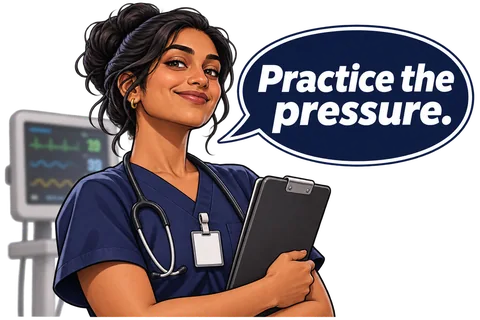
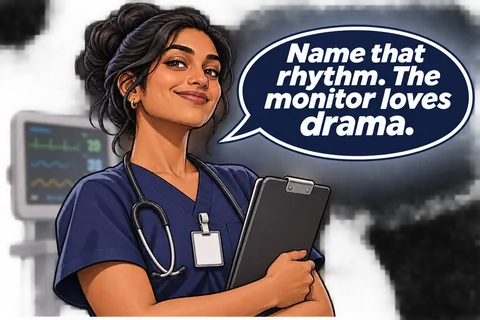
Tie rotating course artwork captions to practical skills

diff --git a/docs/PALS.html b/docs/PALS.html
@@ -819,7 +819,7 @@ height="0" width="0" style="display:none;visibility:hidden"></iframe></noscript>
       </div>
       
       <div class="family-hero-media is-character is-rotating">
-        <img data-family-hero="pals" data-hero-images="[{&quot;url&quot;: &quot;/images/characters/pals/PALS-1.webp?v=0eddeeb26fb4&quot;, &quot;alt&quot;: &quot;Smiling baby saying You got dis! \u2014 Don\u2019t make this weird.&quot;, &quot;srcset&quot;: &quot;/images/characters/pals/PALS-1-480.webp?v=25624ce568b7 480w, /images/characters/pals/PALS-1.webp?v=0eddeeb26fb4 960w&quot;}, {&quot;url&quot;: &quot;/images/characters/pals/PALS-2.webp?v=9e34bb3c9d38&quot;, &quot;alt&quot;: &quot;Respiratory therapist holding a bag-mask device with a Circulation, Airway, Breathing speech bubble.&quot;}, {&quot;url&quot;: &quot;/images/characters/pals/PALS-3.webp?v=9c1c63d270c7&quot;, &quot;alt&quot;: &quot;Respiratory therapist in blue scrubs holding a bag-mask device in a critical-care setting.&quot;}, {&quot;url&quot;: &quot;/images/characters/pals/PALS-4.webp?v=b7f261077fc4&quot;, &quot;alt&quot;: &quot;Respiratory therapy team in blue scrubs at a critical-care bedside.&quot;}, {&quot;url&quot;: &quot;/images/characters/pals/PALS-5.webp?v=8e95adf314c3&quot;, &quot;alt&quot;: &quot;Respiratory therapy team together in a critical-care setting.&quot;}, {&quot;url&quot;: &quot;/images/characters/pals/PALS-6.webp?v=be886e851785&quot;, &quot;alt&quot;: &quot;Pediatric nurse beside a simulation manikin. \u201cSmall patient. Big teamwork.\u201d&quot;, &quot;srcset&quot;: &quot;/images/characters/pals/PALS-6-480.webp?v=9c1359dd084a 480w, /images/characters/pals/PALS-6.webp?v=be886e851785 960w&quot;}, {&quot;url&quot;: &quot;/images/characters/pals/PALS-7.webp?v=3a58837d3b9a&quot;, &quot;alt&quot;: &quot;Respiratory therapist holding a pediatric bag-mask trainer. \u201cLittle lungs. Big focus.\u201d&quot;, &quot;srcset&quot;: &quot;/images/characters/pals/PALS-7-480.webp?v=81d3f03e1572 480w, /images/characters/pals/PALS-7.webp?v=3a58837d3b9a 960w&quot;}]" sizes="(max-width: 820px) 300px, 420px" alt="" fetchpriority="high"><noscript><img src="/images/characters/pals/PALS-1.webp?v=0eddeeb26fb4" srcset="/images/characters/pals/PALS-1-480.webp?v=25624ce568b7 480w, /images/characters/pals/PALS-1.webp?v=0eddeeb26fb4 960w" sizes="(max-width: 820px) 300px, 420px" alt="Smiling baby saying You got dis! — Don’t make this weird." loading="eager" fetchpriority="high"></noscript>
+        <img data-family-hero="pals" data-hero-images="[{&quot;url&quot;: &quot;/images/characters/pals/PALS-1.webp?v=0eddeeb26fb4&quot;, &quot;alt&quot;: &quot;Smiling baby saying You got dis! \u2014 Don\u2019t make this weird.&quot;, &quot;srcset&quot;: &quot;/images/characters/pals/PALS-1-480.webp?v=25624ce568b7 480w, /images/characters/pals/PALS-1.webp?v=0eddeeb26fb4 960w&quot;}, {&quot;url&quot;: &quot;/images/characters/pals/PALS-2.webp?v=9e34bb3c9d38&quot;, &quot;alt&quot;: &quot;Respiratory therapist holding a bag-mask device with a Circulation, Airway, Breathing speech bubble.&quot;}, {&quot;url&quot;: &quot;/images/characters/pals/PALS-3.webp?v=9c1c63d270c7&quot;, &quot;alt&quot;: &quot;Respiratory therapist in blue scrubs holding a bag-mask device in a critical-care setting.&quot;}, {&quot;url&quot;: &quot;/images/characters/pals/PALS-4.webp?v=b7f261077fc4&quot;, &quot;alt&quot;: &quot;Respiratory therapy team in blue scrubs at a critical-care bedside.&quot;}, {&quot;url&quot;: &quot;/images/characters/pals/PALS-5.webp?v=8e95adf314c3&quot;, &quot;alt&quot;: &quot;Respiratory therapy team together in a critical-care setting.&quot;}, {&quot;url&quot;: &quot;/images/characters/pals/PALS-6.webp?v=ca54b662bff4&quot;, &quot;alt&quot;: &quot;Pediatric nurse beside a simulation manikin. \u201cWeight in kilos. Pounds can sit this one out.\u201d&quot;, &quot;srcset&quot;: &quot;/images/characters/pals/PALS-6-480.webp?v=39649586df85 480w, /images/characters/pals/PALS-6.webp?v=ca54b662bff4 960w&quot;}, {&quot;url&quot;: &quot;/images/characters/pals/PALS-7.webp?v=28c672331f2e&quot;, &quot;alt&quot;: &quot;Respiratory therapist holding a pediatric bag-mask trainer. \u201cChest rise. Save the big squeeze for your stress ball.\u201d&quot;, &quot;srcset&quot;: &quot;/images/characters/pals/PALS-7-480.webp?v=fe2f0bb38590 480w, /images/characters/pals/PALS-7.webp?v=28c672331f2e 960w&quot;}]" sizes="(max-width: 820px) 300px, 420px" alt="" fetchpriority="high"><noscript><img src="/images/characters/pals/PALS-1.webp?v=0eddeeb26fb4" srcset="/images/characters/pals/PALS-1-480.webp?v=25624ce568b7 480w, /images/characters/pals/PALS-1.webp?v=0eddeeb26fb4 960w" sizes="(max-width: 820px) 300px, 420px" alt="Smiling baby saying You got dis! — Don’t make this weird." loading="eager" fetchpriority="high"></noscript>
       </div>
     </div>
   </header>

diff --git a/docs/pals.html b/docs/pals.html
@@ -819,7 +819,7 @@ height="0" width="0" style="display:none;visibility:hidden"></iframe></noscript>
       </div>
       
       <div class="family-hero-media is-character is-rotating">
-        <img data-family-hero="pals" data-hero-images="[{&quot;url&quot;: &quot;/images/characters/pals/PALS-1.webp?v=0eddeeb26fb4&quot;, &quot;alt&quot;: &quot;Smiling baby saying You got dis! \u2014 Don\u2019t make this weird.&quot;, &quot;srcset&quot;: &quot;/images/characters/pals/PALS-1-480.webp?v=25624ce568b7 480w, /images/characters/pals/PALS-1.webp?v=0eddeeb26fb4 960w&quot;}, {&quot;url&quot;: &quot;/images/characters/pals/PALS-2.webp?v=9e34bb3c9d38&quot;, &quot;alt&quot;: &quot;Respiratory therapist holding a bag-mask device with a Circulation, Airway, Breathing speech bubble.&quot;}, {&quot;url&quot;: &quot;/images/characters/pals/PALS-3.webp?v=9c1c63d270c7&quot;, &quot;alt&quot;: &quot;Respiratory therapist in blue scrubs holding a bag-mask device in a critical-care setting.&quot;}, {&quot;url&quot;: &quot;/images/characters/pals/PALS-4.webp?v=b7f261077fc4&quot;, &quot;alt&quot;: &quot;Respiratory therapy team in blue scrubs at a critical-care bedside.&quot;}, {&quot;url&quot;: &quot;/images/characters/pals/PALS-5.webp?v=8e95adf314c3&quot;, &quot;alt&quot;: &quot;Respiratory therapy team together in a critical-care setting.&quot;}, {&quot;url&quot;: &quot;/images/characters/pals/PALS-6.webp?v=be886e851785&quot;, &quot;alt&quot;: &quot;Pediatric nurse beside a simulation manikin. \u201cSmall patient. Big teamwork.\u201d&quot;, &quot;srcset&quot;: &quot;/images/characters/pals/PALS-6-480.webp?v=9c1359dd084a 480w, /images/characters/pals/PALS-6.webp?v=be886e851785 960w&quot;}, {&quot;url&quot;: &quot;/images/characters/pals/PALS-7.webp?v=3a58837d3b9a&quot;, &quot;alt&quot;: &quot;Respiratory therapist holding a pediatric bag-mask trainer. \u201cLittle lungs. Big focus.\u201d&quot;, &quot;srcset&quot;: &quot;/images/characters/pals/PALS-7-480.webp?v=81d3f03e1572 480w, /images/characters/pals/PALS-7.webp?v=3a58837d3b9a 960w&quot;}]" sizes="(max-width: 820px) 300px, 420px" alt="" fetchpriority="high"><noscript><img src="/images/characters/pals/PALS-1.webp?v=0eddeeb26fb4" srcset="/images/characters/pals/PALS-1-480.webp?v=25624ce568b7 480w, /images/characters/pals/PALS-1.webp?v=0eddeeb26fb4 960w" sizes="(max-width: 820px) 300px, 420px" alt="Smiling baby saying You got dis! — Don’t make this weird." loading="eager" fetchpriority="high"></noscript>
+        <img data-family-hero="pals" data-hero-images="[{&quot;url&quot;: &quot;/images/characters/pals/PALS-1.webp?v=0eddeeb26fb4&quot;, &quot;alt&quot;: &quot;Smiling baby saying You got dis! \u2014 Don\u2019t make this weird.&quot;, &quot;srcset&quot;: &quot;/images/characters/pals/PALS-1-480.webp?v=25624ce568b7 480w, /images/characters/pals/PALS-1.webp?v=0eddeeb26fb4 960w&quot;}, {&quot;url&quot;: &quot;/images/characters/pals/PALS-2.webp?v=9e34bb3c9d38&quot;, &quot;alt&quot;: &quot;Respiratory therapist holding a bag-mask device with a Circulation, Airway, Breathing speech bubble.&quot;}, {&quot;url&quot;: &quot;/images/characters/pals/PALS-3.webp?v=9c1c63d270c7&quot;, &quot;alt&quot;: &quot;Respiratory therapist in blue scrubs holding a bag-mask device in a critical-care setting.&quot;}, {&quot;url&quot;: &quot;/images/characters/pals/PALS-4.webp?v=b7f261077fc4&quot;, &quot;alt&quot;: &quot;Respiratory therapy team in blue scrubs at a critical-care bedside.&quot;}, {&quot;url&quot;: &quot;/images/characters/pals/PALS-5.webp?v=8e95adf314c3&quot;, &quot;alt&quot;: &quot;Respiratory therapy team together in a critical-care setting.&quot;}, {&quot;url&quot;: &quot;/images/characters/pals/PALS-6.webp?v=ca54b662bff4&quot;, &quot;alt&quot;: &quot;Pediatric nurse beside a simulation manikin. \u201cWeight in kilos. Pounds can sit this one out.\u201d&quot;, &quot;srcset&quot;: &quot;/images/characters/pals/PALS-6-480.webp?v=39649586df85 480w, /images/characters/pals/PALS-6.webp?v=ca54b662bff4 960w&quot;}, {&quot;url&quot;: &quot;/images/characters/pals/PALS-7.webp?v=28c672331f2e&quot;, &quot;alt&quot;: &quot;Respiratory therapist holding a pediatric bag-mask trainer. \u201cChest rise. Save the big squeeze for your stress ball.\u201d&quot;, &quot;srcset&quot;: &quot;/images/characters/pals/PALS-7-480.webp?v=fe2f0bb38590 480w, /images/characters/pals/PALS-7.webp?v=28c672331f2e 960w&quot;}]" sizes="(max-width: 820px) 300px, 420px" alt="" fetchpriority="high"><noscript><img src="/images/characters/pals/PALS-1.webp?v=0eddeeb26fb4" srcset="/images/characters/pals/PALS-1-480.webp?v=25624ce568b7 480w, /images/characters/pals/PALS-1.webp?v=0eddeeb26fb4 960w" sizes="(max-width: 820px) 300px, 420px" alt="Smiling baby saying You got dis! — Don’t make this weird." loading="eager" fetchpriority="high"></noscript>
       </div>
     </div>
   </header>

diff --git a/docs/ACLS.html b/docs/ACLS.html
@@ -819,7 +819,7 @@ height="0" width="0" style="display:none;visibility:hidden"></iframe></noscript>
       </div>
       
       <div class="family-hero-media is-character is-rotating">
-        <img data-family-hero="acls" data-hero-images="[{&quot;url&quot;: &quot;/images/characters/acls/ACLS-1.webp?v=316d0b3a38fd&quot;, &quot;alt&quot;: &quot;Approved ACLS nurse character with RN badge and a reminder to be ready when the room turns to you.&quot;, &quot;srcset&quot;: &quot;/images/characters/acls/ACLS-1-480.webp?v=73a72e4cd8c4 480w, /images/characters/acls/ACLS-1.webp?v=316d0b3a38fd 960w&quot;}, {&quot;url&quot;: &quot;/images/characters/acls/ACLS-2.webp?v=c50647615ba2&quot;, &quot;alt&quot;: &quot;Approved ACLS paramedic character: I am the designated adult? Yikes.&quot;, &quot;srcset&quot;: &quot;/images/characters/acls/ACLS-2-480.webp?v=a0a2f2f60913 480w, /images/characters/acls/ACLS-2.webp?v=c50647615ba2 960w&quot;}, {&quot;url&quot;: &quot;/images/characters/acls/ACLS-3.webp?v=d6fd96bf5b35&quot;, &quot;alt&quot;: &quot;Approved ACLS emergency department pharmacist character with an imposter-syndrome reminder.&quot;, &quot;srcset&quot;: &quot;/images/characters/acls/ACLS-3-480.webp?v=a03e9bebb375 480w, /images/characters/acls/ACLS-3.webp?v=d6fd96bf5b35 960w&quot;}, {&quot;url&quot;: &quot;/images/characters/acls/ACLS-4.webp?v=437125830218&quot;, &quot;alt&quot;: &quot;Emergency nurse holding a run sheet. \u201cCalm is a skill.\u201d&quot;, &quot;srcset&quot;: &quot;/images/characters/acls/ACLS-4-480.webp?v=a3bf7a78513b 480w, /images/characters/acls/ACLS-4.webp?v=437125830218 960w&quot;}, {&quot;url&quot;: &quot;/images/characters/acls/ACLS-5.webp?v=d229592a45cf&quot;, &quot;alt&quot;: &quot;Critical care clinician with a clipboard. \u201cPractice the pressure.\u201d&quot;, &quot;srcset&quot;: &quot;/images/characters/acls/ACLS-5-480.webp?v=2186d2ebf57e 480w, /images/characters/acls/ACLS-5.webp?v=d229592a45cf 960w&quot;}]" sizes="(max-width: 820px) 300px, 420px" alt="" fetchpriority="high"><noscript><img src="/images/characters/acls/ACLS-1.webp?v=316d0b3a38fd" srcset="/images/characters/acls/ACLS-1-480.webp?v=73a72e4cd8c4 480w, /images/characters/acls/ACLS-1.webp?v=316d0b3a38fd 960w" sizes="(max-width: 820px) 300px, 420px" alt="Approved ACLS nurse character with RN badge and a reminder to be ready when the room turns to you." loading="eager" fetchpriority="high"></noscript>
+        <img data-family-hero="acls" data-hero-images="[{&quot;url&quot;: &quot;/images/characters/acls/ACLS-1.webp?v=316d0b3a38fd&quot;, &quot;alt&quot;: &quot;Approved ACLS nurse character with RN badge and a reminder to be ready when the room turns to you.&quot;, &quot;srcset&quot;: &quot;/images/characters/acls/ACLS-1-480.webp?v=73a72e4cd8c4 480w, /images/characters/acls/ACLS-1.webp?v=316d0b3a38fd 960w&quot;}, {&quot;url&quot;: &quot;/images/characters/acls/ACLS-2.webp?v=c50647615ba2&quot;, &quot;alt&quot;: &quot;Approved ACLS paramedic character: I am the designated adult? Yikes.&quot;, &quot;srcset&quot;: &quot;/images/characters/acls/ACLS-2-480.webp?v=a0a2f2f60913 480w, /images/characters/acls/ACLS-2.webp?v=c50647615ba2 960w&quot;}, {&quot;url&quot;: &quot;/images/characters/acls/ACLS-3.webp?v=d6fd96bf5b35&quot;, &quot;alt&quot;: &quot;Approved ACLS emergency department pharmacist character with an imposter-syndrome reminder.&quot;, &quot;srcset&quot;: &quot;/images/characters/acls/ACLS-3-480.webp?v=a03e9bebb375 480w, /images/characters/acls/ACLS-3.webp?v=d6fd96bf5b35 960w&quot;}, {&quot;url&quot;: &quot;/images/characters/acls/ACLS-4.webp?v=a527534f2c37&quot;, &quot;alt&quot;: &quot;Emergency nurse holding a run sheet. \u201cSay it back. My telepathy\u2019s on break.\u201d&quot;, &quot;srcset&quot;: &quot;/images/characters/acls/ACLS-4-480.webp?v=441594820e06 480w, /images/characters/acls/ACLS-4.webp?v=a527534f2c37 960w&quot;}, {&quot;url&quot;: &quot;/images/characters/acls/ACLS-5.webp?v=c32993455314&quot;, &quot;alt&quot;: &quot;Critical care clinician with a clipboard. \u201cName that rhythm. The monitor loves drama.\u201d&quot;, &quot;srcset&quot;: &quot;/images/characters/acls/ACLS-5-480.webp?v=f546b986632a 480w, /images/characters/acls/ACLS-5.webp?v=c32993455314 960w&quot;}]" sizes="(max-width: 820px) 300px, 420px" alt="" fetchpriority="high"><noscript><img src="/images/characters/acls/ACLS-1.webp?v=316d0b3a38fd" srcset="/images/characters/acls/ACLS-1-480.webp?v=73a72e4cd8c4 480w, /images/characters/acls/ACLS-1.webp?v=316d0b3a38fd 960w" sizes="(max-width: 820px) 300px, 420px" alt="Approved ACLS nurse character with RN badge and a reminder to be ready when the room turns to you." loading="eager" fetchpriority="high"></noscript>
       </div>
     </div>
   </header>

diff --git a/docs/acls.html b/docs/acls.html
@@ -819,7 +819,7 @@ height="0" width="0" style="display:none;visibility:hidden"></iframe></noscript>
       </div>
       
       <div class="family-hero-media is-character is-rotating">
-        <img data-family-hero="acls" data-hero-images="[{&quot;url&quot;: &quot;/images/characters/acls/ACLS-1.webp?v=316d0b3a38fd&quot;, &quot;alt&quot;: &quot;Approved ACLS nurse character with RN badge and a reminder to be ready when the room turns to you.&quot;, &quot;srcset&quot;: &quot;/images/characters/acls/ACLS-1-480.webp?v=73a72e4cd8c4 480w, /images/characters/acls/ACLS-1.webp?v=316d0b3a38fd 960w&quot;}, {&quot;url&quot;: &quot;/images/characters/acls/ACLS-2.webp?v=c50647615ba2&quot;, &quot;alt&quot;: &quot;Approved ACLS paramedic character: I am the designated adult? Yikes.&quot;, &quot;srcset&quot;: &quot;/images/characters/acls/ACLS-2-480.webp?v=a0a2f2f60913 480w, /images/characters/acls/ACLS-2.webp?v=c50647615ba2 960w&quot;}, {&quot;url&quot;: &quot;/images/characters/acls/ACLS-3.webp?v=d6fd96bf5b35&quot;, &quot;alt&quot;: &quot;Approved ACLS emergency department pharmacist character with an imposter-syndrome reminder.&quot;, &quot;srcset&quot;: &quot;/images/characters/acls/ACLS-3-480.webp?v=a03e9bebb375 480w, /images/characters/acls/ACLS-3.webp?v=d6fd96bf5b35 960w&quot;}, {&quot;url&quot;: &quot;/images/characters/acls/ACLS-4.webp?v=437125830218&quot;, &quot;alt&quot;: &quot;Emergency nurse holding a run sheet. \u201cCalm is a skill.\u201d&quot;, &quot;srcset&quot;: &quot;/images/characters/acls/ACLS-4-480.webp?v=a3bf7a78513b 480w, /images/characters/acls/ACLS-4.webp?v=437125830218 960w&quot;}, {&quot;url&quot;: &quot;/images/characters/acls/ACLS-5.webp?v=d229592a45cf&quot;, &quot;alt&quot;: &quot;Critical care clinician with a clipboard. \u201cPractice the pressure.\u201d&quot;, &quot;srcset&quot;: &quot;/images/characters/acls/ACLS-5-480.webp?v=2186d2ebf57e 480w, /images/characters/acls/ACLS-5.webp?v=d229592a45cf 960w&quot;}]" sizes="(max-width: 820px) 300px, 420px" alt="" fetchpriority="high"><noscript><img src="/images/characters/acls/ACLS-1.webp?v=316d0b3a38fd" srcset="/images/characters/acls/ACLS-1-480.webp?v=73a72e4cd8c4 480w, /images/characters/acls/ACLS-1.webp?v=316d0b3a38fd 960w" sizes="(max-width: 820px) 300px, 420px" alt="Approved ACLS nurse character with RN badge and a reminder to be ready when the room turns to you." loading="eager" fetchpriority="high"></noscript>
+        <img data-family-hero="acls" data-hero-images="[{&quot;url&quot;: &quot;/images/characters/acls/ACLS-1.webp?v=316d0b3a38fd&quot;, &quot;alt&quot;: &quot;Approved ACLS nurse character with RN badge and a reminder to be ready when the room turns to you.&quot;, &quot;srcset&quot;: &quot;/images/characters/acls/ACLS-1-480.webp?v=73a72e4cd8c4 480w, /images/characters/acls/ACLS-1.webp?v=316d0b3a38fd 960w&quot;}, {&quot;url&quot;: &quot;/images/characters/acls/ACLS-2.webp?v=c50647615ba2&quot;, &quot;alt&quot;: &quot;Approved ACLS paramedic character: I am the designated adult? Yikes.&quot;, &quot;srcset&quot;: &quot;/images/characters/acls/ACLS-2-480.webp?v=a0a2f2f60913 480w, /images/characters/acls/ACLS-2.webp?v=c50647615ba2 960w&quot;}, {&quot;url&quot;: &quot;/images/characters/acls/ACLS-3.webp?v=d6fd96bf5b35&quot;, &quot;alt&quot;: &quot;Approved ACLS emergency department pharmacist character with an imposter-syndrome reminder.&quot;, &quot;srcset&quot;: &quot;/images/characters/acls/ACLS-3-480.webp?v=a03e9bebb375 480w, /images/characters/acls/ACLS-3.webp?v=d6fd96bf5b35 960w&quot;}, {&quot;url&quot;: &quot;/images/characters/acls/ACLS-4.webp?v=a527534f2c37&quot;, &quot;alt&quot;: &quot;Emergency nurse holding a run sheet. \u201cSay it back. My telepathy\u2019s on break.\u201d&quot;, &quot;srcset&quot;: &quot;/images/characters/acls/ACLS-4-480.webp?v=441594820e06 480w, /images/characters/acls/ACLS-4.webp?v=a527534f2c37 960w&quot;}, {&quot;url&quot;: &quot;/images/characters/acls/ACLS-5.webp?v=c32993455314&quot;, &quot;alt&quot;: &quot;Critical care clinician with a clipboard. \u201cName that rhythm. The monitor loves drama.\u201d&quot;, &quot;srcset&quot;: &quot;/images/characters/acls/ACLS-5-480.webp?v=f546b986632a 480w, /images/characters/acls/ACLS-5.webp?v=c32993455314 960w&quot;}]" sizes="(max-width: 820px) 300px, 420px" alt="" fetchpriority="high"><noscript><img src="/images/characters/acls/ACLS-1.webp?v=316d0b3a38fd" srcset="/images/characters/acls/ACLS-1-480.webp?v=73a72e4cd8c4 480w, /images/characters/acls/ACLS-1.webp?v=316d0b3a38fd 960w" sizes="(max-width: 820px) 300px, 420px" alt="Approved ACLS nurse character with RN badge and a reminder to be ready when the room turns to you." loading="eager" fetchpriority="high"></noscript>
       </div>
     </div>
   </header>

diff --git a/docs/BLS.html b/docs/BLS.html
@@ -819,7 +819,7 @@ height="0" width="0" style="display:none;visibility:hidden"></iframe></noscript>
       </div>
       
       <div class="family-hero-media is-character is-rotating">
-        <img data-family-hero="bls" data-hero-images="[{&quot;url&quot;: &quot;/images/characters/bls/BLS-1.webp?v=a48708e29627&quot;, &quot;alt&quot;: &quot;Anjla pointing toward the BLS class choices with her Schedule it reminder.&quot;, &quot;srcset&quot;: &quot;/images/characters/bls/BLS-1-480.webp?v=0151cb601137 480w, /images/characters/bls/BLS-1.webp?v=a48708e29627 960w&quot;}, {&quot;url&quot;: &quot;/images/characters/bls/BLS-2.webp?v=e3017b7973b4&quot;, &quot;alt&quot;: &quot;Nurse in teal scrubs pointing toward the class choices: My coffee can wait.&quot;, &quot;srcset&quot;: &quot;/images/characters/bls/BLS-2-480.webp?v=75a4b7db4e1c 480w, /images/characters/bls/BLS-2.webp?v=e3017b7973b4 960w&quot;}, {&quot;url&quot;: &quot;/images/characters/bls/BLS-3.webp?v=049f6ba0b5aa&quot;, &quot;alt&quot;: &quot;Nurse beside CPR training equipment: Practice makes less panic.&quot;, &quot;srcset&quot;: &quot;/images/characters/bls/BLS-3-480.webp?v=31d6f86b41b2 480w, /images/characters/bls/BLS-3.webp?v=049f6ba0b5aa 960w&quot;}, {&quot;url&quot;: &quot;/images/characters/bls/BLS-4.webp?v=fbb9840fe26a&quot;, &quot;alt&quot;: &quot;Instructor holding an AED trainer. \u201cReady when it counts.\u201d&quot;, &quot;srcset&quot;: &quot;/images/characters/bls/BLS-4-480.webp?v=b7d2bb52a66b 480w, /images/characters/bls/BLS-4.webp?v=fbb9840fe26a 960w&quot;}, {&quot;url&quot;: &quot;/images/characters/bls/BLS-5.webp?v=29c8b42aef27&quot;, &quot;alt&quot;: &quot;Clinician beside a CPR manikin. \u201cSkills beat guesswork.\u201d&quot;, &quot;srcset&quot;: &quot;/images/characters/bls/BLS-5-480.webp?v=da20271758d8 480w, /images/characters/bls/BLS-5.webp?v=29c8b42aef27 960w&quot;}]" sizes="(max-width: 820px) 300px, 420px" alt="" fetchpriority="high"><noscript><img src="/images/characters/bls/BLS-1.webp?v=a48708e29627" srcset="/images/characters/bls/BLS-1-480.webp?v=0151cb601137 480w, /images/characters/bls/BLS-1.webp?v=a48708e29627 960w" sizes="(max-width: 820px) 300px, 420px" alt="Anjla pointing toward the BLS class choices with her Schedule it reminder." loading="eager" fetchpriority="high"></noscript>
+        <img data-family-hero="bls" data-hero-images="[{&quot;url&quot;: &quot;/images/characters/bls/BLS-1.webp?v=a48708e29627&quot;, &quot;alt&quot;: &quot;Anjla pointing toward the BLS class choices with her Schedule it reminder.&quot;, &quot;srcset&quot;: &quot;/images/characters/bls/BLS-1-480.webp?v=0151cb601137 480w, /images/characters/bls/BLS-1.webp?v=a48708e29627 960w&quot;}, {&quot;url&quot;: &quot;/images/characters/bls/BLS-2.webp?v=e3017b7973b4&quot;, &quot;alt&quot;: &quot;Nurse in teal scrubs pointing toward the class choices: My coffee can wait.&quot;, &quot;srcset&quot;: &quot;/images/characters/bls/BLS-2-480.webp?v=75a4b7db4e1c 480w, /images/characters/bls/BLS-2.webp?v=e3017b7973b4 960w&quot;}, {&quot;url&quot;: &quot;/images/characters/bls/BLS-3.webp?v=049f6ba0b5aa&quot;, &quot;alt&quot;: &quot;Nurse beside CPR training equipment: Practice makes less panic.&quot;, &quot;srcset&quot;: &quot;/images/characters/bls/BLS-3-480.webp?v=31d6f86b41b2 480w, /images/characters/bls/BLS-3.webp?v=049f6ba0b5aa 960w&quot;}, {&quot;url&quot;: &quot;/images/characters/bls/BLS-4.webp?v=1fac70bb836e&quot;, &quot;alt&quot;: &quot;Instructor holding an AED trainer. \u201cThe AED is bossy. We like that about her.\u201d&quot;, &quot;srcset&quot;: &quot;/images/characters/bls/BLS-4-480.webp?v=08ac88a9ec4e 480w, /images/characters/bls/BLS-4.webp?v=1fac70bb836e 960w&quot;}, {&quot;url&quot;: &quot;/images/characters/bls/BLS-5.webp?v=b39584e78ef9&quot;, &quot;alt&quot;: &quot;Clinician beside a CPR manikin. \u201cFull recoil. Save the leaning for the nurses\u2019 station.\u201d&quot;, &quot;srcset&quot;: &quot;/images/characters/bls/BLS-5-480.webp?v=2b0cc430cce4 480w, /images/characters/bls/BLS-5.webp?v=b39584e78ef9 960w&quot;}]" sizes="(max-width: 820px) 300px, 420px" alt="" fetchpriority="high"><noscript><img src="/images/characters/bls/BLS-1.webp?v=a48708e29627" srcset="/images/characters/bls/BLS-1-480.webp?v=0151cb601137 480w, /images/characters/bls/BLS-1.webp?v=a48708e29627 960w" sizes="(max-width: 820px) 300px, 420px" alt="Anjla pointing toward the BLS class choices with her Schedule it reminder." loading="eager" fetchpriority="high"></noscript>
       </div>
     </div>
   </header>

diff --git a/docs/bls.html b/docs/bls.html
@@ -819,7 +819,7 @@ height="0" width="0" style="display:none;visibility:hidden"></iframe></noscript>
       </div>
       
       <div class="family-hero-media is-character is-rotating">
-        <img data-family-hero="bls" data-hero-images="[{&quot;url&quot;: &quot;/images/characters/bls/BLS-1.webp?v=a48708e29627&quot;, &quot;alt&quot;: &quot;Anjla pointing toward the BLS class choices with her Schedule it reminder.&quot;, &quot;srcset&quot;: &quot;/images/characters/bls/BLS-1-480.webp?v=0151cb601137 480w, /images/characters/bls/BLS-1.webp?v=a48708e29627 960w&quot;}, {&quot;url&quot;: &quot;/images/characters/bls/BLS-2.webp?v=e3017b7973b4&quot;, &quot;alt&quot;: &quot;Nurse in teal scrubs pointing toward the class choices: My coffee can wait.&quot;, &quot;srcset&quot;: &quot;/images/characters/bls/BLS-2-480.webp?v=75a4b7db4e1c 480w, /images/characters/bls/BLS-2.webp?v=e3017b7973b4 960w&quot;}, {&quot;url&quot;: &quot;/images/characters/bls/BLS-3.webp?v=049f6ba0b5aa&quot;, &quot;alt&quot;: &quot;Nurse beside CPR training equipment: Practice makes less panic.&quot;, &quot;srcset&quot;: &quot;/images/characters/bls/BLS-3-480.webp?v=31d6f86b41b2 480w, /images/characters/bls/BLS-3.webp?v=049f6ba0b5aa 960w&quot;}, {&quot;url&quot;: &quot;/images/characters/bls/BLS-4.webp?v=fbb9840fe26a&quot;, &quot;alt&quot;: &quot;Instructor holding an AED trainer. \u201cReady when it counts.\u201d&quot;, &quot;srcset&quot;: &quot;/images/characters/bls/BLS-4-480.webp?v=b7d2bb52a66b 480w, /images/characters/bls/BLS-4.webp?v=fbb9840fe26a 960w&quot;}, {&quot;url&quot;: &quot;/images/characters/bls/BLS-5.webp?v=29c8b42aef27&quot;, &quot;alt&quot;: &quot;Clinician beside a CPR manikin. \u201cSkills beat guesswork.\u201d&quot;, &quot;srcset&quot;: &quot;/images/characters/bls/BLS-5-480.webp?v=da20271758d8 480w, /images/characters/bls/BLS-5.webp?v=29c8b42aef27 960w&quot;}]" sizes="(max-width: 820px) 300px, 420px" alt="" fetchpriority="high"><noscript><img src="/images/characters/bls/BLS-1.webp?v=a48708e29627" srcset="/images/characters/bls/BLS-1-480.webp?v=0151cb601137 480w, /images/characters/bls/BLS-1.webp?v=a48708e29627 960w" sizes="(max-width: 820px) 300px, 420px" alt="Anjla pointing toward the BLS class choices with her Schedule it reminder." loading="eager" fetchpriority="high"></noscript>
+        <img data-family-hero="bls" data-hero-images="[{&quot;url&quot;: &quot;/images/characters/bls/BLS-1.webp?v=a48708e29627&quot;, &quot;alt&quot;: &quot;Anjla pointing toward the BLS class choices with her Schedule it reminder.&quot;, &quot;srcset&quot;: &quot;/images/characters/bls/BLS-1-480.webp?v=0151cb601137 480w, /images/characters/bls/BLS-1.webp?v=a48708e29627 960w&quot;}, {&quot;url&quot;: &quot;/images/characters/bls/BLS-2.webp?v=e3017b7973b4&quot;, &quot;alt&quot;: &quot;Nurse in teal scrubs pointing toward the class choices: My coffee can wait.&quot;, &quot;srcset&quot;: &quot;/images/characters/bls/BLS-2-480.webp?v=75a4b7db4e1c 480w, /images/characters/bls/BLS-2.webp?v=e3017b7973b4 960w&quot;}, {&quot;url&quot;: &quot;/images/characters/bls/BLS-3.webp?v=049f6ba0b5aa&quot;, &quot;alt&quot;: &quot;Nurse beside CPR training equipment: Practice makes less panic.&quot;, &quot;srcset&quot;: &quot;/images/characters/bls/BLS-3-480.webp?v=31d6f86b41b2 480w, /images/characters/bls/BLS-3.webp?v=049f6ba0b5aa 960w&quot;}, {&quot;url&quot;: &quot;/images/characters/bls/BLS-4.webp?v=1fac70bb836e&quot;, &quot;alt&quot;: &quot;Instructor holding an AED trainer. \u201cThe AED is bossy. We like that about her.\u201d&quot;, &quot;srcset&quot;: &quot;/images/characters/bls/BLS-4-480.webp?v=08ac88a9ec4e 480w, /images/characters/bls/BLS-4.webp?v=1fac70bb836e 960w&quot;}, {&quot;url&quot;: &quot;/images/characters/bls/BLS-5.webp?v=b39584e78ef9&quot;, &quot;alt&quot;: &quot;Clinician beside a CPR manikin. \u201cFull recoil. Save the leaning for the nurses\u2019 station.\u201d&quot;, &quot;srcset&quot;: &quot;/images/characters/bls/BLS-5-480.webp?v=2b0cc430cce4 480w, /images/characters/bls/BLS-5.webp?v=b39584e78ef9 960w&quot;}]" sizes="(max-width: 820px) 300px, 420px" alt="" fetchpriority="high"><noscript><img src="/images/characters/bls/BLS-1.webp?v=a48708e29627" srcset="/images/characters/bls/BLS-1-480.webp?v=0151cb601137 480w, /images/characters/bls/BLS-1.webp?v=a48708e29627 960w" sizes="(max-width: 820px) 300px, 420px" alt="Anjla pointing toward the BLS class choices with her Schedule it reminder." loading="eager" fetchpriority="high"></noscript>
       </div>
     </div>
   </header>
